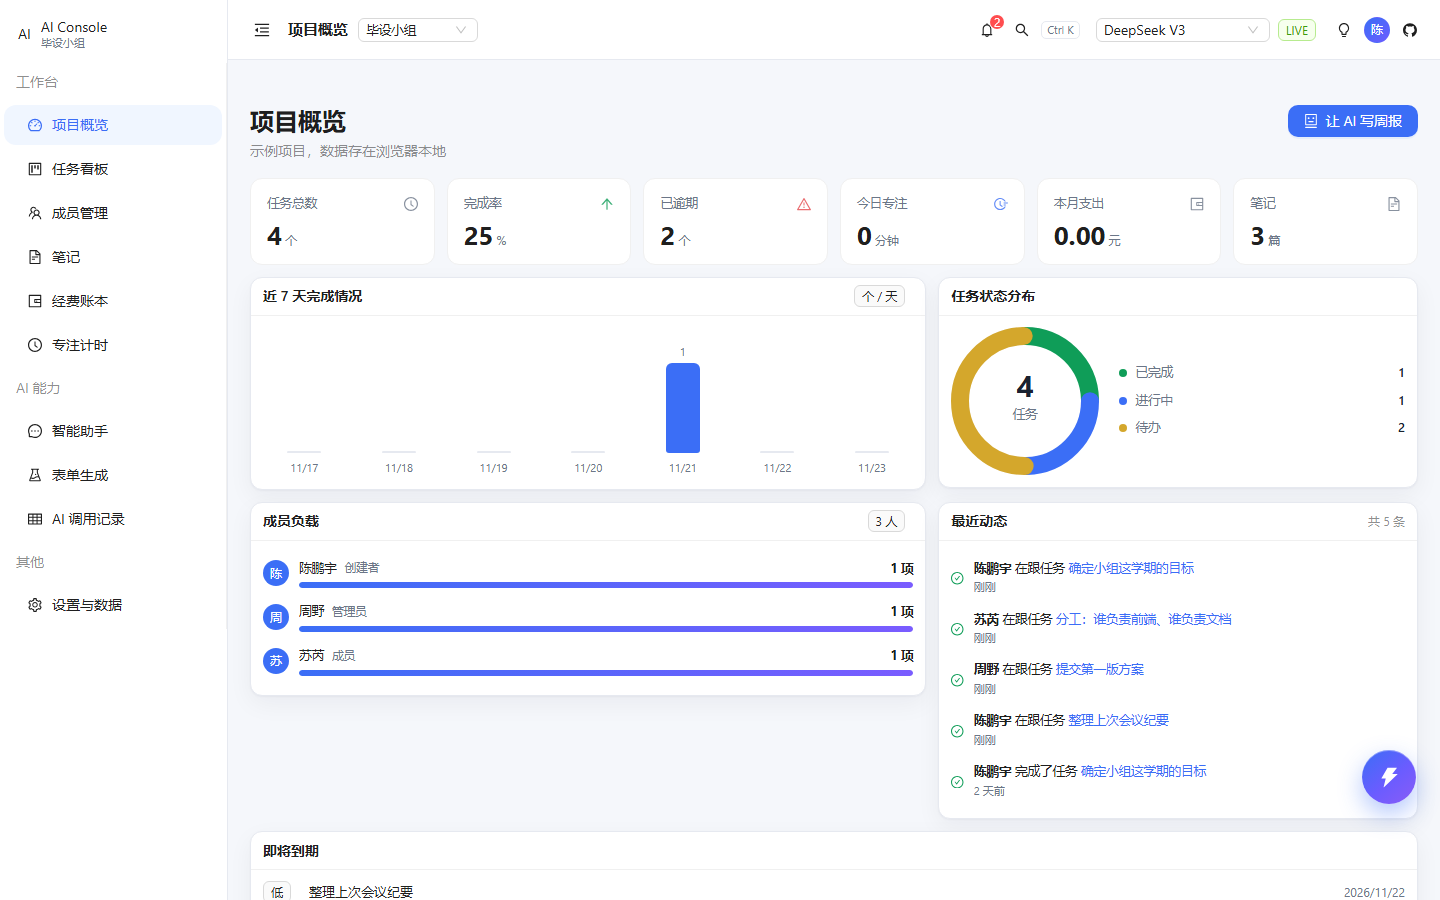
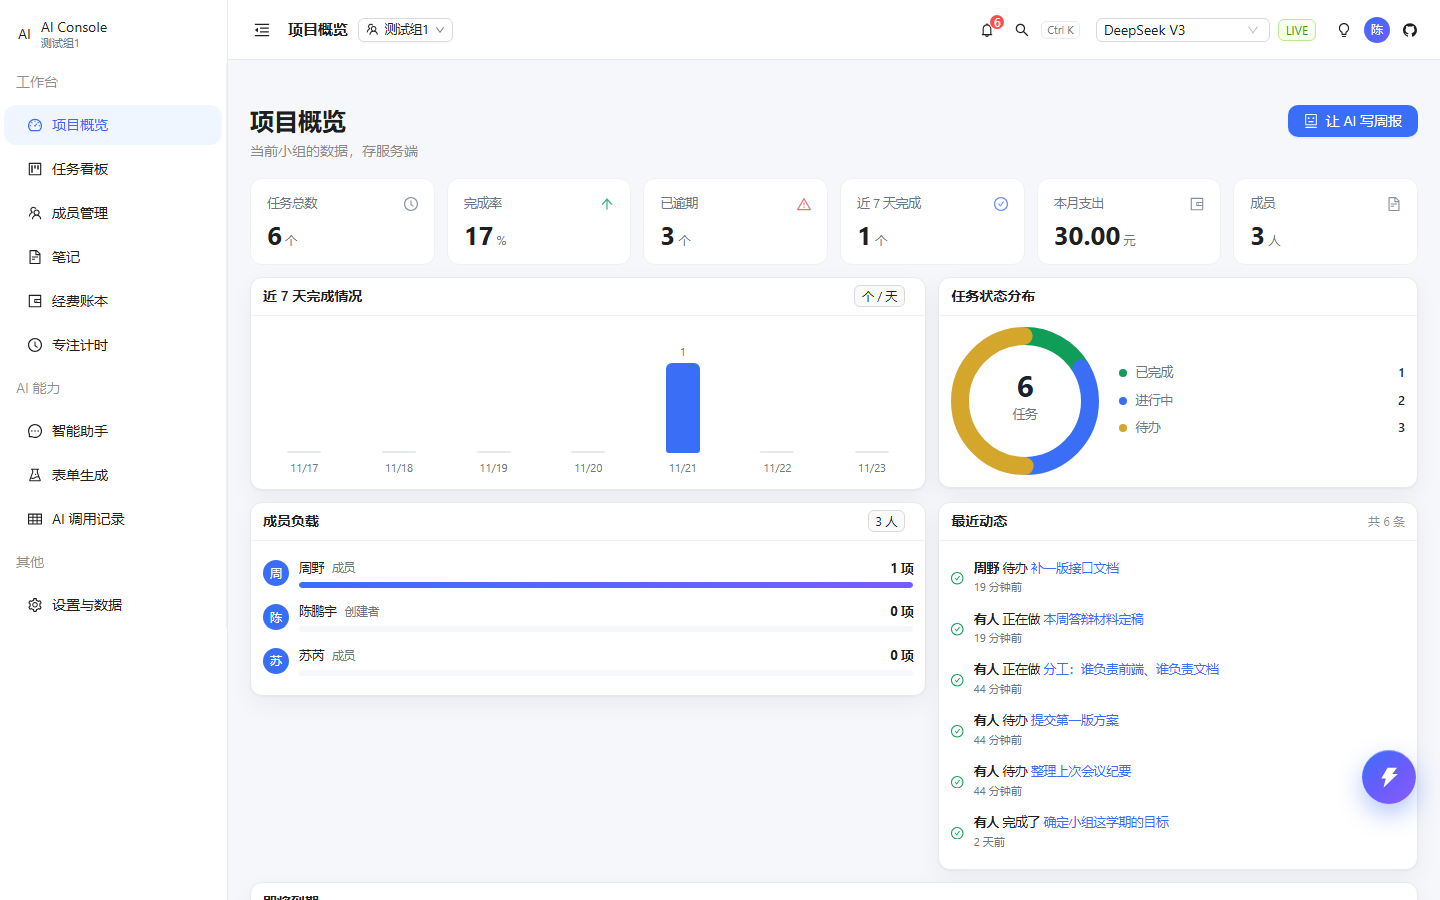
refine: 放慢登录动效；概览只保留小组级指标
- 入场 0.5/0.55s → 0.8/0.85s，光斑 18s → 26s，圆环 1.1 → 1.4s，logo 0.65 → 1s
- 过场停留 900ms → 1600ms，预览 1.6s → 2.4s
- 概览去掉「今日专注」「笔记数」（用户级），换成「近 7 天完成」「成员数」
- 专注页/笔记页注明「只属于你，不随小组切换」
- 最近动态措辞改为 完成了/正在做/待办，未指派不再显示「有人」

diff --git a/src/styles/global.css b/src/styles/global.css
@@ -2488,7 +2488,7 @@ html[data-theme='dark'] .alert-banner {
   border-radius: 50%;
   filter: blur(60px);
   opacity: 0.55;
-  animation: blobFloat 18s ease-in-out infinite;
+  animation: blobFloat 26s ease-in-out infinite;
 }
 
 .blob-1 {
@@ -2537,11 +2537,11 @@ html[data-theme='dark'] .alert-banner {
 }
 
 .auth-brand {
-  animation: riseIn 0.5s cubic-bezier(0.22, 1, 0.36, 1) both;
+  animation: riseIn 0.8s cubic-bezier(0.22, 1, 0.36, 1) both;
 }
 
 .auth-rise {
-  animation: riseIn 0.55s cubic-bezier(0.22, 1, 0.36, 1) both;
+  animation: riseIn 0.85s cubic-bezier(0.22, 1, 0.36, 1) both;
 }
 
 @keyframes riseIn {
@@ -2598,11 +2598,11 @@ html[data-theme='dark'] .alert-banner {
   height: 120px;
   border-radius: 50%;
   border: 2px solid rgba(59, 110, 246, 0.6);
-  animation: ringOut 1.1s cubic-bezier(0.22, 1, 0.36, 1) forwards;
+  animation: ringOut 1.4s cubic-bezier(0.22, 1, 0.36, 1) forwards;
 }
 
 .enter-ring-delay {
-  animation-delay: 0.18s;
+  animation-delay: 0.3s;
   border-color: rgba(124, 92, 255, 0.45);
 }
 
@@ -2628,7 +2628,7 @@ html[data-theme='dark'] .alert-banner {
   font-size: 24px;
   background: linear-gradient(140deg, #3b6ef6, #6b5cff);
   box-shadow: 0 18px 40px rgba(59, 110, 246, 0.35);
-  animation: logoPop 0.65s cubic-bezier(0.22, 1.4, 0.36, 1) both;
+  animation: logoPop 1s cubic-bezier(0.22, 1.4, 0.36, 1) both;
 }
 
 @keyframes logoPop {
@@ -2650,7 +2650,7 @@ html[data-theme='dark'] .alert-banner {
   font-size: 14px;
   color: var(--muted);
   letter-spacing: 0.5px;
-  animation: riseIn 0.45s ease 0.3s both;
+  animation: riseIn 0.6s ease 0.55s both;
 }
 
 @media (prefers-reduced-motion: reduce) {

diff --git a/src/features/auth/LoginPage.tsx b/src/features/auth/LoginPage.tsx
@@ -81,7 +81,7 @@ export function LoginPage() {
   useEffect(() => {
     if (new URLSearchParams(window.location.search).get('enter') !== '1') return;
     setEntering(user?.displayName ?? '陈鹏宇');
-    const timer = window.setTimeout(() => setEntering(null), 1600);
+    const timer = window.setTimeout(() => setEntering(null), 2400);
     return () => window.clearTimeout(timer);
   }, [user?.displayName]);
 
@@ -101,9 +101,10 @@ export function LoginPage() {
 
       const name = useAuthStore.getState().user?.displayName ?? '';
       setEntering(name);
+      // 过场放慢一点，给动画留出呼吸
       window.setTimeout(() => {
         navigate(hasGroup ? '/overview' : '/groups', { replace: true });
-      }, 900);
+      }, 1600);
     } catch {
       // 验证码一次性，失败后换一张，避免用户对着同一个死码反复输
       if (mode === 'register') void loadCaptcha();
@@ -130,7 +131,7 @@ export function LoginPage() {
         </div>
       </div>
 
-      <Card className="auth-card auth-rise" style={{ animationDelay: '80ms' }}>
+      <Card className="auth-card auth-rise" style={{ animationDelay: '140ms' }}>
         <Segmented
           block
           value={mode}

diff --git a/src/features/workspace/store.ts b/src/features/workspace/store.ts
@@ -72,11 +72,13 @@ function deriveActivities(tasks: Task[], members: Member[]): Activity[] {
   const nameOf = new Map(members.map((m) => [m.id, m.displayName]));
   const events: Activity[] = [];
   for (const task of tasks) {
-    const who = task.assigneeId ? (nameOf.get(task.assigneeId) ?? '有人') : '有人';
+    const who = task.assigneeId ? (nameOf.get(task.assigneeId) ?? '未指派') : '未指派';
     if (task.status === 'done' && task.completedAt) {
-      events.push({ id: `c-${task.id}`, who, action: '完成了任务', target: task.title, at: task.completedAt });
+      events.push({ id: `c-${task.id}`, who, action: '完成了', target: task.title, at: task.completedAt });
+      continue;
     }
-    events.push({ id: `n-${task.id}`, who, action: '在跟任务', target: task.title, at: task.createdAt });
+    const action = task.status === 'doing' ? '正在做' : '待办';
+    events.push({ id: `n-${task.id}`, who, action, target: task.title, at: task.createdAt });
   }
   return events.sort((a, b) => b.at - a.at).slice(0, 6);
 }

diff --git a/src/features/notes/NotesPage.tsx b/src/features/notes/NotesPage.tsx
@@ -157,7 +157,7 @@ export function NotesPage() {
             笔记
           </Typography.Title>
           <Typography.Paragraph type="secondary" style={{ marginBottom: 0 }}>
-            支持 Markdown，停止输入自动保存。
+            只属于你，不随小组切换。支持 Markdown，停止输入自动保存。
           </Typography.Paragraph>
         </div>
         <Button type="primary" icon={<PlusOutlined />} onClick={addNote}>

diff --git a/src/features/focus/FocusPage.tsx b/src/features/focus/FocusPage.tsx
@@ -221,7 +221,7 @@ export function FocusPage() {
           专注计时
         </Typography.Title>
         <Typography.Paragraph type="secondary" style={{ marginBottom: 0 }}>
-          到点会弹窗并发送系统通知。
+          记录只属于你，不随小组切换。到点会弹窗并发送系统通知。
         </Typography.Paragraph>
       </div>
 

diff --git a/README.md b/README.md
@@ -232,6 +232,17 @@ tests/                         Vitest 用例
 
 ---
 
+## 数据边界：什么跟着小组，什么跟着人
+
+这条界线很重要，概览上的指标也按它来选：
+
+| 范围 | 模块 | 说明 |
+|---|---|---|
+| **小组级** | 项目概览、任务看板、成员、经费账本 | 换小组就换一套数据，组员共享 |
+| **用户级** | 专注计时、笔记、智能助手会话 | 换小组不变，只属于你自己 |
+
+所以概览页不放「今日专注」和「笔记数」——那两个是个人数据，放进小组概览会让人误以为是全组的。个人数据都在各自页面顶部，并写明「只属于你，不随小组切换」。
+
 ## 重点标记与登录提醒
 
 任务卡片右上角菜单可以「标记重点」，卡片标题前会出现 ★。
